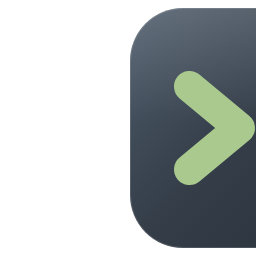
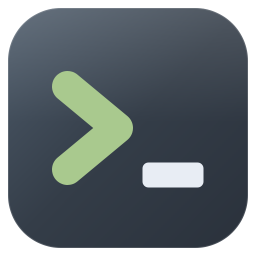
fix: 应用图标不再只剩一半
无头 Chrome 在 --window-size=256 下把整张画往右推、右边裁掉，而运行时窗口
图标和 .ico 的 256 档都直接用了这张，标题栏/任务栏就只剩半个徽章。现在只让
Chrome 渲 1024 母图，256 由 make-ico.mjs 从母图缩小并自己编码 PNG；出图脚本
和单元测试各查一遍四边留边，构图歪了或贴边就报错。

diff --git a/src/main.rs b/src/main.rs
@@ -44,3 +44,47 @@ fn window_icon() -> eframe::egui::IconData {
     eframe::icon_data::from_png_bytes(png)
         .expect("assets/easy-editor-256.png 不是能解码的 PNG，重新跑 tools/render-icon.ps1")
 }
+
+#[cfg(test)]
+mod tests {
+    use super::*;
+
+    /// 出过一档「图标只剩一半」：无头 Chrome 在 `--window-size=256` 下把整张画往右推、
+    /// 右边裁掉，标题栏和任务栏拿到的就是那张半截图。现在 256 由 tools/make-ico.mjs
+    /// 从 1024 母图缩小，这里兜底盯住构图：四边留边要相等且不贴到画布边缘。
+    #[test]
+    fn window_icon_is_centered_and_not_clipped() {
+        let icon = window_icon();
+        let size = icon.width as usize;
+        assert_eq!((size, icon.height as usize), (256, 256));
+
+        let (mut min_x, mut min_y) = (size, size);
+        let (mut max_x, mut max_y) = (0usize, 0usize);
+        for y in 0..size {
+            for x in 0..size {
+                if icon.rgba[(y * size + x) * 4 + 3] > 8 {
+                    min_x = min_x.min(x);
+                    max_x = max_x.max(x);
+                    min_y = min_y.min(y);
+                    max_y = max_y.max(y);
+                }
+            }
+        }
+
+        // SVG 的徽章在 1024 格上留 32 的边，等比到这张图就是 size / 32。
+        let want = size / 32;
+        let sides = [
+            ("左", min_x),
+            ("上", min_y),
+            ("右", size - 1 - max_x),
+            ("下", size - 1 - max_y),
+        ];
+        for (side, got) in sides {
+            assert!(
+                got.abs_diff(want) <= 2,
+                "图标{side}边留了 {got}px，应为 {want}±2（构图整体偏移或被裁切，重跑 tools/render-icon.ps1）；\
+                 不透明区 x={min_x}..{max_x} y={min_y}..{max_y}"
+            );
+        }
+    }
+}

diff --git a/README.md b/README.md
@@ -32,7 +32,7 @@ cargo run -- src\app.rs                 # 启动并打开文件
 
 ```bash
 cargo check                             # 只做类型检查，最快
-cargo test                              # 93 个单元测试（面板树 / 快捷键 / 日志块解析 / 格式化 / 标题栏配色 / 无头界面行为）
+cargo test                              # 94 个单元测试（面板树 / 快捷键 / 日志块解析 / 格式化 / 标题栏配色 / 图标构图 / 无头界面行为）
 cargo build                             # 调试构建 → target\debug\easy-editor.exe
 cargo build --release                   # 发布构建 → target\release\EasyEditor.exe
 ```
@@ -69,9 +69,9 @@ cargo fmt --check                       # 需要 rustup component add rustfmt
 powershell -NoProfile -ExecutionPolicy Bypass -File tools/render-icon.ps1
 ```
 
-脚本用本机 Chrome/Edge 无头截图把 SVG 渲成 1024 母图和 256 档，`tools/make-ico.mjs` 再从母图按面积加权缩小出 16/24/32/48/64/128 拼成 `assets/easy-editor.ico`（小尺寸是传统 32bpp DIB + 1bpp AND 掩码，256 那档直接塞 PNG）。中间产物落在 `assets/build/`，不进版本库；`.ico` 和 `easy-editor-256.png` 要提交。
+脚本只用本机 Chrome/Edge 无头截图渲一张 1024 母图，其余档位（16/24/32/48/64/128 和运行时用的 256）都由 `tools/make-ico.mjs` 从母图按面积加权缩小，再拼成 `assets/easy-editor.ico`（小尺寸是传统 32bpp DIB + 1bpp AND 掩码，256 那档塞 PNG，由脚本自己编码，不依赖任何库）。中间产物落在 `assets/build/`，不进版本库；`.ico` 和 `easy-editor-256.png` 要提交。
 
-不逐档找 Chrome 要图，是因为它在 `--window-size=128,128`、`160,160` 这两档会稳定截出全透明的空图。
+不逐档找 Chrome 要图，是因为它的小窗口截图不可靠：`--window-size=128,128`、`160,160` 稳定截出全透明的空图，`256,256` 会把整张画往右推、右边裁掉——标题栏和任务栏拿到这种图就是「图标只剩一半」。`tools/render-icon.ps1` 出图后量不透明区的四边留边，`src/main.rs` 里 `window_icon_is_centered_and_not_clipped` 再盯一遍嵌入的那份，构图歪了或被裁了就报错。
 
 两份图标管的地方不一样：
 
